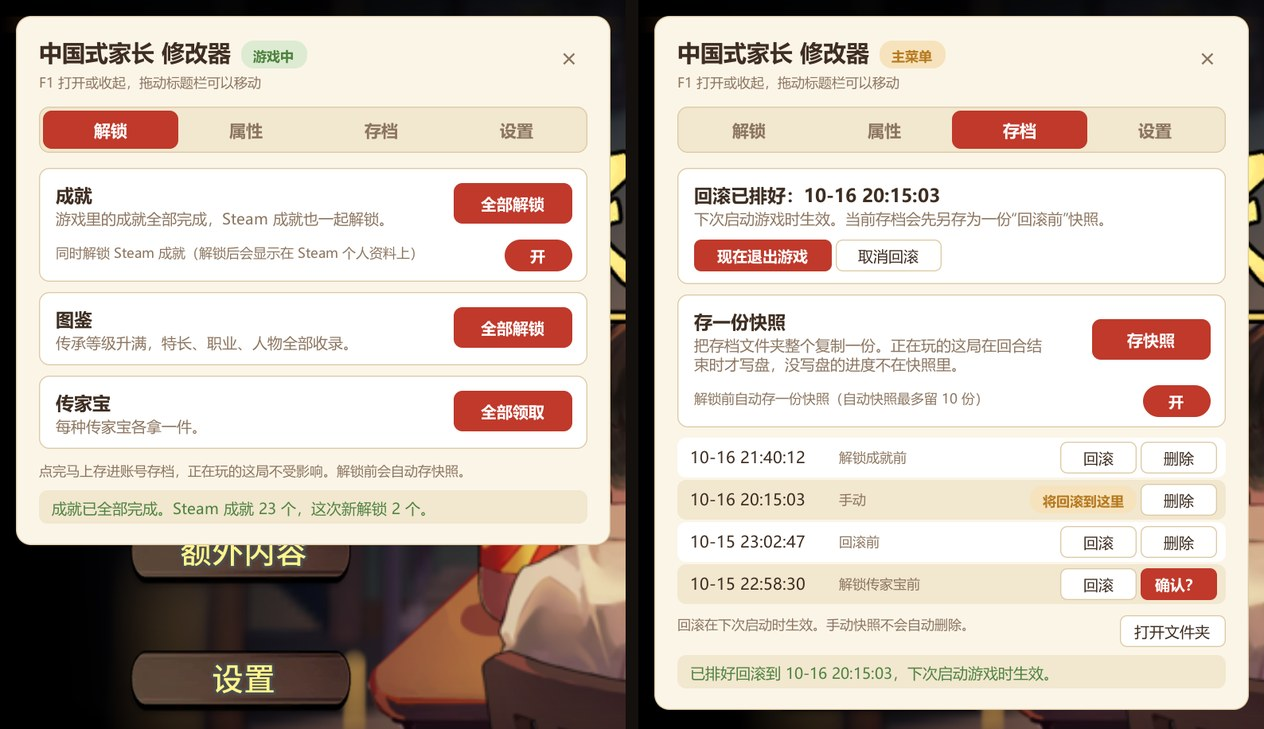
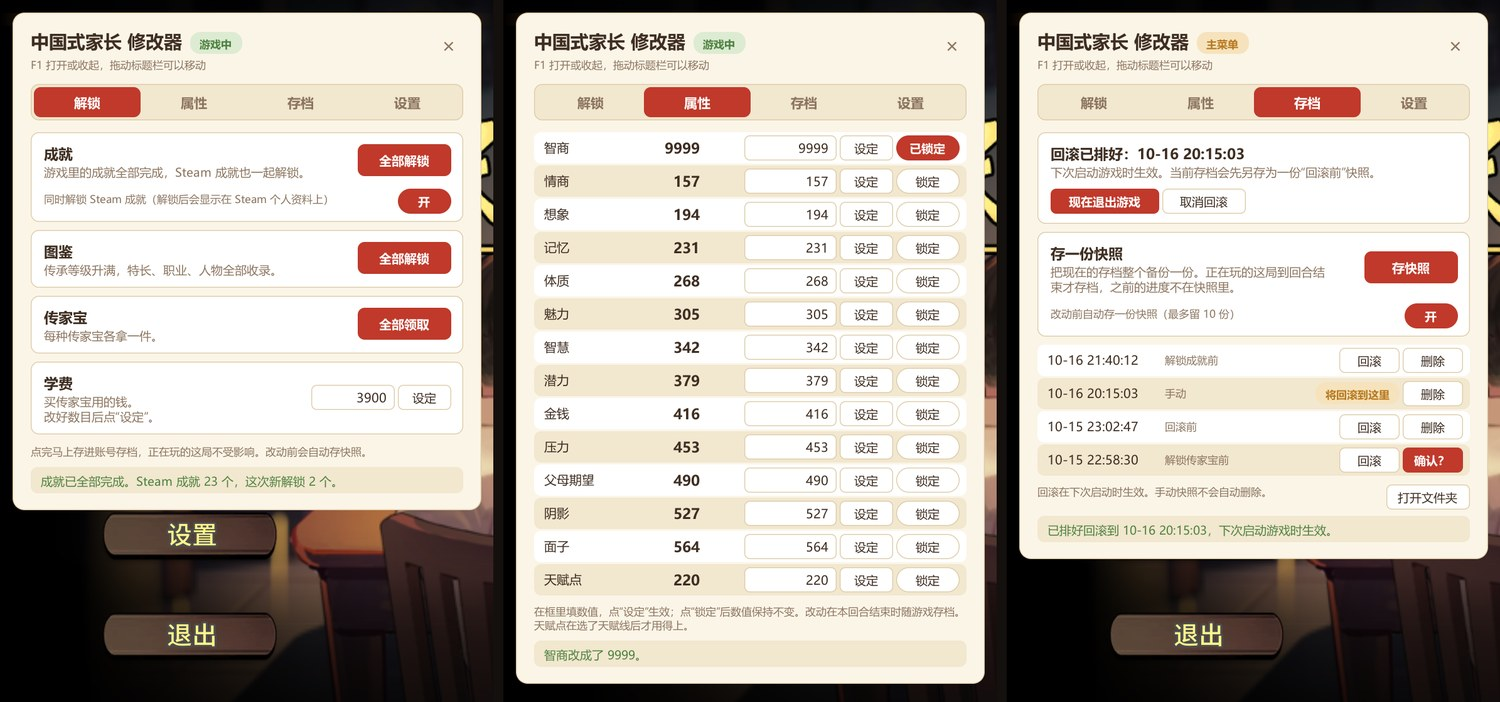
Release 1.0: game speed, tuition and talent points, beginner install package
- Game speed (1x/2x/3x/5x) via Time.timeScale, with an "加速" chip in
  the title bar while it is above 1x.
- Tuition card on the unlock tab (written to the account save, auto
  snapshot first) and talent points as a 14th attribute row.
- First-run hint "按 F1 打开修改器" until the panel is opened once.
- tools/package.ps1 builds a zip with BepInEx and 使用说明.txt that
  installs by unzipping into the game folder.
- Plainer panel copy; README starts with a three-step quick start.
- Self-test covers tuition round trip and game speed.

diff --git a/src/ChineseParentsMod/Plugin.cs b/src/ChineseParentsMod/Plugin.cs
@@ -8,7 +8,7 @@ using UnityEngine;
 
 namespace ChineseParentsMod
 {
-    [BepInPlugin(Guid, "Chinese Parents Cheat Panel", "0.4.0")]
+    [BepInPlugin(Guid, "Chinese Parents Cheat Panel", "1.0.0")]
     public partial class Plugin : BaseUnityPlugin
     {
         private const string Guid = "local.chineseparents.cheatpanel";
@@ -25,6 +25,7 @@ namespace ChineseParentsMod
         private int m_tab;
         private Rect m_window;
         private string m_message = "";
+        private string m_tuitionInput;
         private bool m_messageIsError;
         private Theme m_theme;
         private Font m_font;
@@ -60,6 +61,8 @@ namespace ChineseParentsMod
             {
                 m_show = !m_show;
                 m_inputs.Clear();
+                m_tuitionInput = null;
+                if (m_show && !Settings.PanelOpened.Value) Settings.PanelOpened.Value = true;
                 m_snapshots = null;
             }
             Vector3 mouse = Input.mousePosition;
@@ -67,6 +70,9 @@ namespace ChineseParentsMod
 #if SELFTEST
             if (m_forcePointerOverPanel.HasValue) PointerOverPanel = m_forcePointerOverPanel.Value;
 #endif
+            // The game never sets timeScale itself, so the panel owns it.
+            float speed = Settings.GameSpeed;
+            if (Time.timeScale != speed) Time.timeScale = speed;
             if (m_locked.Count == 0 || !IsInGame())
             {
                 return;
@@ -87,7 +93,8 @@ namespace ChineseParentsMod
 
         private void OnGUI()
         {
-            if (!m_show)
+            // Until the panel has been opened once, the title screen shows how to open it.
+            if (!m_show && Settings.PanelOpened.Value)
             {
                 return;
             }
@@ -103,6 +110,11 @@ namespace ChineseParentsMod
                 m_theme?.Dispose();
                 m_theme = new Theme(m_font, scale);
                 m_window = new Rect(m_theme.S(60), m_theme.S(60), m_theme.S(WindowWidth), 0);
+            }
+            if (!m_show)
+            {
+                DrawFirstRunHint();
+                return;
             }
             m_window.x = Mathf.Clamp(m_window.x, 0f, Mathf.Max(0f, Screen.width - m_window.width));
             m_window.y = Mathf.Clamp(m_window.y, 0f, Mathf.Max(0f, Screen.height - m_window.height));
@@ -127,6 +139,10 @@ namespace ChineseParentsMod
             GUILayout.BeginHorizontal();
             GUILayout.Label("中国式家长 修改器", m_theme.Title);
             GUILayout.Label(inGame ? "游戏中" : loggedIn ? "主菜单" : "读取中", inGame ? m_theme.ChipGreen : loggedIn ? m_theme.ChipAmber : m_theme.ChipGray);
+            if (Settings.GameSpeedIndex.Value > 0)
+            {
+                GUILayout.Label("加速 " + Settings.GameSpeedLabels[Mathf.Clamp(Settings.GameSpeedIndex.Value, 0, Settings.GameSpeeds.Length - 1)], m_theme.ChipAmber);
+            }
             GUILayout.FlexibleSpace();
             if (GUILayout.Button("×", m_theme.Close)) m_show = false;
             GUILayout.EndHorizontal();
@@ -163,14 +179,49 @@ namespace ChineseParentsMod
                 () => Settings.SteamAchievements.Value = SwitchRow("同时解锁 Steam 成就（解锁后会显示在 Steam 个人资料上）", steam));
             Card("图鉴", "传承等级升满，特长、职业、人物全部收录。", () => ActionButton("全部解锁", () => SnapshotThen("图鉴", Cheats.UnlockCollections)));
             Card("传家宝", "每种传家宝各拿一件。", () => ActionButton("全部领取", () => SnapshotThen("传家宝", Cheats.UnlockTreasures)));
+            DrawTuition(loggedIn);
             GUI.enabled = true;
             GUILayout.Label(!loggedIn ? "存档还没读完，稍等一下。" : Settings.AutoSnapshot.Value
-                ? "点完马上存进账号存档，正在玩的这局不受影响。解锁前会自动存快照。"
+                ? "点完马上存进账号存档，正在玩的这局不受影响。改动前会自动存快照。"
                 : "点完马上存进账号存档，正在玩的这局不受影响。", m_theme.Note);
+        }
+
+        private void DrawTuition(bool loggedIn)
+        {
+            int current = loggedIn ? ReadTuition() : 0;
+            // Filled from the account only after login, so a panel opened on the loading screen still gets the value.
+            if (m_tuitionInput == null && loggedIn) m_tuitionInput = current.ToString(CultureInfo.InvariantCulture);
+            Card("学费", "买传家宝用的钱。\n改好数目后点“设定”。", () =>
+            {
+                GUILayout.BeginHorizontal();
+                string typed = GUILayout.TextField(m_tuitionInput ?? "", m_theme.Field, GUILayout.Width(m_theme.S(100)));
+                if (loggedIn) m_tuitionInput = typed;
+                bool parsed = int.TryParse(m_tuitionInput, NumberStyles.Integer, CultureInfo.InvariantCulture, out int value) && value >= 0;
+                if (GUILayout.Button("设定", m_theme.Ghost, GUILayout.Width(m_theme.S(64))))
+                {
+                    if (parsed) Run(() => SnapshotThen("学费", () => WriteTuition(value)));
+                    else Report("学费要填 0 或正整数。", null, true);
+                }
+                GUILayout.EndHorizontal();
+            }, descriptionWidth: 290);
+        }
+
+        private void DrawFirstRunHint()
+        {
+            var text = new GUIContent("按 F1 打开修改器");
+            Vector2 size = m_theme.Toast.CalcSize(text);
+            GUI.Label(new Rect((Screen.width - size.x) / 2f, m_theme.S(24), size.x, size.y), text, m_theme.Toast);
         }
 
         private void DrawSettings()
         {
+            Card("游戏速度", "动画和等待一起加快。小游戏也会变快，玩之前可调回 1×。", null, () =>
+            {
+                GUILayout.Space(m_theme.S(8));
+                GUILayout.BeginHorizontal(m_theme.Segment);
+                Settings.GameSpeedIndex.Value = GUILayout.Toolbar(Settings.GameSpeedIndex.Value, Settings.GameSpeedLabels, m_theme.Tab);
+                GUILayout.EndHorizontal();
+            });
             Card("文本速度", "对话和事件文字逐字出现的速度。点一下对话框仍然可以直接显示全文。", null, () =>
             {
                 GUILayout.Space(m_theme.S(8));
@@ -232,7 +283,7 @@ namespace ChineseParentsMod
         {
             if (!inGame)
             {
-                GUILayout.Label("进入一局游戏后才能改属性。", m_theme.Empty, GUILayout.Height(m_theme.S(140)));
+                GUILayout.Label("读档或开新档，进入一局游戏后才能改属性。", m_theme.Empty, GUILayout.Height(m_theme.S(140)));
                 return;
             }
             for (int i = 0; i < Cheats.Attributes.Length; i++)
@@ -241,7 +292,7 @@ namespace ChineseParentsMod
                 DrawAttribute(type, name, i % 2 == 0 ? m_theme.Row : m_theme.RowAlt);
             }
             GUILayout.Space(m_theme.S(6));
-            GUILayout.Label("锁定后数值不再变动。改动在本回合结束时跟着游戏一起存档。", m_theme.Note);
+            GUILayout.Label("在框里填数值，点“设定”生效；点“锁定”后数值保持不变。改动在本回合结束时随游戏存档。天赋点在选了天赋线后才用得上。", m_theme.Note);
         }
 
         private void DrawAttribute(EMainInfoType type, string name, GUIStyle row)
@@ -283,14 +334,14 @@ namespace ChineseParentsMod
             }
             catch (Exception e)
             {
-                Report($"出错了：{e.Message}。详情见 BepInEx 日志。", e);
+                Report($"出错了：{e.Message}。详情见游戏目录下的 BepInEx\\LogOutput.log。", e);
             }
         }
 
-        private void Report(string message, Exception e = null)
+        private void Report(string message, Exception e = null, bool isError = false)
         {
             m_message = message;
-            m_messageIsError = e != null;
+            m_messageIsError = e != null || isError;
             if (e == null) Logger.LogInfo(message);
             else Logger.LogError(message + "\n" + e);
         }
@@ -300,6 +351,8 @@ namespace ChineseParentsMod
         private static bool IsInGame() => Cheats.InGame;
         private static float ReadAttribute(EMainInfoType type) => Cheats.GetAttribute(type);
         private static void WriteAttribute(EMainInfoType type, float value) => Cheats.SetAttribute(type, value);
+        private static int ReadTuition() => Cheats.Tuition;
+        private static string WriteTuition(int value) => Cheats.SetTuition(value);
 #endif
     }
 }

diff --git a/src/ChineseParentsMod/SelfTest.cs b/src/ChineseParentsMod/SelfTest.cs
@@ -63,6 +63,8 @@ namespace ChineseParentsMod
             TestUnlocks();
             TestSaveRoundTrip();
             TestTextSpeed();
+            TestTuition();
+            yield return TestGameSpeed();
             yield return TestPanel();
             yield return TestThemeRebuild();
             TestSnapshotsInTempDir();
@@ -89,6 +91,38 @@ namespace ChineseParentsMod
             }
             string steam = Cheats.UnlockAchievements(true);
             Check(steam.Contains("Steam"), "Steam 成就路径：" + steam);
+        }
+
+        // Writes tuition + 1 to the account save, reads it back, then writes the original value again.
+        private void TestTuition()
+        {
+            int original = Cheats.Tuition;
+            Cheats.SetTuition(original + 1);
+            NewAccountSaverSubInfo disk = null;
+            SingleTon<NewRecordMgr>.Instance.ReqAccountSubInfo(x => disk = x);
+            Check(Cheats.Tuition == original + 1 && disk != null && disk.Tuition == original + 1, $"学费改写后写盘一致（{original} → {original + 1}）");
+            Cheats.SetTuition(original);
+            SingleTon<NewRecordMgr>.Instance.ReqAccountSubInfo(x => disk = x);
+            Check(disk.Tuition == original, $"学费改回 {original}");
+        }
+
+        private IEnumerator TestGameSpeed()
+        {
+            int saved = Settings.GameSpeedIndex.Value;
+            for (int i = 0; i < Settings.GameSpeeds.Length; i++)
+            {
+                Settings.GameSpeedIndex.Value = i;
+                yield return null;
+                float start = Time.realtimeSinceStartup;
+                yield return new WaitForSeconds(1f);
+                float real = Time.realtimeSinceStartup - start;
+                float expected = 1f / Settings.GameSpeeds[i];
+                Check(Time.timeScale == Settings.GameSpeeds[i] && Mathf.Abs(real - expected) < 0.1f + expected * 0.1f,
+                    $"游戏速度 {Settings.GameSpeedLabels[i]}：timeScale {Time.timeScale}，1 秒等待实际 {real:0.00} s");
+            }
+            Settings.GameSpeedIndex.Value = saved;
+            yield return null;
+            Check(Time.timeScale == Settings.GameSpeed, $"游戏速度恢复为 {Time.timeScale}");
         }
 
         private void TestSaveRoundTrip()

diff --git a/src/ChineseParentsMod/Cheats.cs b/src/ChineseParentsMod/Cheats.cs
@@ -8,6 +8,10 @@ namespace ChineseParentsMod
     // way NewRecordMgr does it, so the game's normal save path keeps the result.
     internal static class Cheats
     {
+        // Talent points live in TalentLineMgr, not in the attribute table. This key lets the attribute
+        // tab treat them as one more row; the value is outside the real enum range.
+        public const EMainInfoType TalentPoints = (EMainInfoType)(-100);
+
         public static readonly (EMainInfoType Type, string Name)[] Attributes =
         {
             (EMainInfoType.IQ, "智商"),
@@ -23,6 +27,7 @@ namespace ChineseParentsMod
             (EMainInfoType.ParentDream, "父母期望"),
             (EMainInfoType.Shadow, "阴影"),
             (EMainInfoType.Face, "面子"),
+            (TalentPoints, "天赋点"),
         };
 
         private static NewRecordMgr Records => SingleTon<NewRecordMgr>.Instance;
@@ -116,10 +121,28 @@ namespace ChineseParentsMod
             return added == 0 ? "传家宝早就齐了。" : $"新拿到传家宝 {added} 件。";
         }
 
-        public static float GetAttribute(EMainInfoType type) => SingleTon<NewPlayerDataMgr>.Instance[type];
+        public static int Tuition => SingleTon<TuitionMgr>.Instance.Tuition;
+
+        // Tuition is account money (spent on heirlooms), so it goes straight into the account save.
+        public static string SetTuition(int value)
+        {
+            TuitionMgr mgr = SingleTon<TuitionMgr>.Instance;
+            mgr.AddTuition(value - mgr.Tuition);
+            SaveAccount();
+            return $"学费改成了 {mgr.Tuition}。";
+        }
+
+        public static float GetAttribute(EMainInfoType type) =>
+            type == TalentPoints ? SingleTon<TalentLineMgr>.Instance.TalentPo : SingleTon<NewPlayerDataMgr>.Instance[type];
 
         public static void SetAttribute(EMainInfoType type, float value)
         {
+            if (type == TalentPoints)
+            {
+                // The setter only fires its change event when the value differs.
+                SingleTon<TalentLineMgr>.Instance.TalentPo = (int)value;
+                return;
+            }
             NewPlayerDataMgr player = SingleTon<NewPlayerDataMgr>.Instance;
             if (player[type] != value)
             {

diff --git a/src/ChineseParentsMod/Settings.cs b/src/ChineseParentsMod/Settings.cs
@@ -10,18 +10,27 @@ namespace ChineseParentsMod
         public static readonly float[] TextSpeeds = { 1f, 2f, 4f, 8f, 0f };
         public static readonly string[] TextSpeedLabels = { "1×", "2×", "4×", "8×", "瞬间" };
 
+        public static readonly float[] GameSpeeds = { 1f, 2f, 3f, 5f };
+        public static readonly string[] GameSpeedLabels = { "1×", "2×", "3×", "5×" };
+
         public static ConfigEntry<int> TextSpeedIndex;
+        public static ConfigEntry<int> GameSpeedIndex;
         public static ConfigEntry<bool> SkipIntro;
         public static ConfigEntry<bool> SteamAchievements;
         public static ConfigEntry<bool> AutoSnapshot;
+        public static ConfigEntry<bool> PanelOpened;
 
         public static void Bind(ConfigFile config)
         {
+            GameSpeedIndex = config.Bind("Game", "SpeedIndex", 0, "Game speed (Time.timeScale): 0 = 1x, 1 = 2x, 2 = 3x, 3 = 5x.");
             TextSpeedIndex = config.Bind("Text", "SpeedIndex", 0, "Typewriter speed: 0 = 1x, 1 = 2x, 2 = 4x, 3 = 8x, 4 = instant.");
             SkipIntro = config.Bind("Startup", "SkipIntro", true, "Skip the studio logo and go straight to the title screen.");
             SteamAchievements = config.Bind("Unlock", "SteamAchievements", true, "Also unlock Steam achievements when unlocking all achievements.");
             AutoSnapshot = config.Bind("Saves", "AutoSnapshot", true, "Snapshot the save folder before every unlock.");
+            PanelOpened = config.Bind("Ui", "PanelOpened", false, "Set after the panel is opened once; until then the title screen shows an F1 hint.");
         }
+
+        public static float GameSpeed => GameSpeeds[Mathf.Clamp(GameSpeedIndex.Value, 0, GameSpeeds.Length - 1)];
 
         public static float ScaleDuration(float duration)
         {

diff --git a/src/ChineseParentsMod/Preview.cs b/src/ChineseParentsMod/Preview.cs
@@ -16,14 +16,21 @@ namespace ChineseParentsMod
 
         private bool IsLoggedIn() => m_previewStage >= 1;
         private bool IsInGame() => m_previewStage >= 2;
-        private float ReadAttribute(EMainInfoType type) => m_fake.TryGetValue(type, out float v) ? v : 120 + (int)type * 37;
+        private float ReadAttribute(EMainInfoType type) => m_fake.TryGetValue(type, out float v) ? v : 120 + Mathf.Abs((int)type) * 37 % 900;
         private void WriteAttribute(EMainInfoType type, float value) => m_fake[type] = value;
+        private int m_fakeTuition = 3900;
+        private int ReadTuition() => m_fakeTuition;
+        private string WriteTuition(int value) => $"学费改成了 {m_fakeTuition = value}。";
 
         private IEnumerator PreviewShots()
         {
             string dir = Path.Combine(Paths.BepInExRootPath, "preview");
             Directory.CreateDirectory(dir);
             yield return new WaitForSeconds(12f);
+            bool opened = Settings.PanelOpened.Value;
+            Settings.PanelOpened.Value = false;
+            yield return Shot(dir, "0-hint");
+            Settings.PanelOpened.Value = opened;
             m_show = true;
             yield return Shot(dir, "0-logged-out");
             m_previewStage = 2;
@@ -52,7 +59,9 @@ namespace ChineseParentsMod
             yield return Shot(dir, "4-snapshots");
             m_message = "";
             m_tab = 3;
+            Settings.GameSpeedIndex.Value = 2;
             yield return Shot(dir, "5-settings");
+            Settings.GameSpeedIndex.Value = 0;
             Application.Quit();
         }
 

diff --git a/src/ChineseParentsMod/Theme.cs b/src/ChineseParentsMod/Theme.cs
@@ -22,7 +22,7 @@ namespace ChineseParentsMod
 
         public readonly float Scale;
         public GUIStyle Window, Shadow, Title, Hint, Section, Body, Note, NoteRow, Value, Empty, RowName;
-        public GUIStyle Segment, Tab, Card, Row, RowAlt, Primary, Ghost, Confirm, Field, Close, Message;
+        public GUIStyle Segment, Tab, Card, Row, RowAlt, Primary, Ghost, Confirm, Field, Close, Message, Toast;
         public GUIStyle ChipGray, ChipAmber, ChipGreen, LockOff, LockOn;
 
         private readonly Font m_font;
@@ -99,6 +99,12 @@ namespace ChineseParentsMod
             LockOn = Button(14, Rounded(Seal, Seal, 15), Rounded(SealDark, SealDark, 15), Rounded(SealDeep, SealDeep, 15), Color.white, Color.white, 15);
             LockOff.fixedHeight = LockOn.fixedHeight = S(30);
             LockOn.fontStyle = FontStyle.Bold;
+
+            Toast = Box(Rounded(Ink, Ink, 10), 10, Pad(18, 18, 9, 11));
+            Toast.font = font;
+            Toast.fontSize = S(16);
+            Toast.alignment = TextAnchor.MiddleCenter;
+            Toast.normal.textColor = Color.white;
 
             Message = Box(Rounded(PaperDeep, PaperDeep, 8), 8, Pad(12, 12, 8, 9));
             Message.font = font;

diff --git a/src/ChineseParentsMod/SnapshotTab.cs b/src/ChineseParentsMod/SnapshotTab.cs
@@ -68,14 +68,14 @@ namespace ChineseParentsMod
                 });
             }
 
-            Card("存一份快照", "把存档文件夹整个复制一份。正在玩的这局在回合结束时才写盘，没写盘的进度不在快照里。",
+            Card("存一份快照", "把现在的存档整个备份一份。正在玩的这局到回合结束才存档，之前的进度不在快照里。",
                 () => ActionButton("存快照", () =>
                 {
                     Snapshot s = Snapshots.Create(SnapshotKind.Manual);
                     m_snapshots = null;
                     return $"快照已存：{s.When}。";
                 }),
-                () => Settings.AutoSnapshot.Value = SwitchRow("解锁前自动存一份快照（自动快照最多留 10 份）", Settings.AutoSnapshot.Value));
+                () => Settings.AutoSnapshot.Value = SwitchRow("改动前自动存一份快照（最多留 10 份）", Settings.AutoSnapshot.Value));
 
             if (list.Count == 0)
             {

diff --git a/src/ChineseParentsMod/SelfTestSnapshots.cs b/src/ChineseParentsMod/SelfTestSnapshots.cs
@@ -96,6 +96,7 @@ namespace ChineseParentsMod
                 Check(Snapshots.List().Count == count + 1 && auto.Kind == SnapshotKind.BeforeUnlock && auto.What == "解锁传家宝前",
                     "解锁前自动存快照：" + auto.What);
                 Snapshots.Delete(auto);
+                Check(new Snapshot { Kind = SnapshotKind.BeforeUnlock, Note = "学费" }.What == "改学费前", "学费快照显示为“改学费前”");
             }
             catch (Exception e)
             {

diff --git a/src/ChineseParentsMod/Snapshots.cs b/src/ChineseParentsMod/Snapshots.cs
@@ -21,7 +21,7 @@ namespace ChineseParentsMod
 
         public string What =>
             Kind == SnapshotKind.Manual ? "手动" :
-            Kind == SnapshotKind.BeforeUnlock ? $"解锁{Note}前" : "回滚前";
+            Kind == SnapshotKind.BeforeUnlock ? (Note == "学费" ? "改学费前" : $"解锁{Note}前") : "回滚前";
     }
 
     // Whole-folder copies of the game's Save directory. They live in ModSnapshots next to Save, so Steam Cloud
